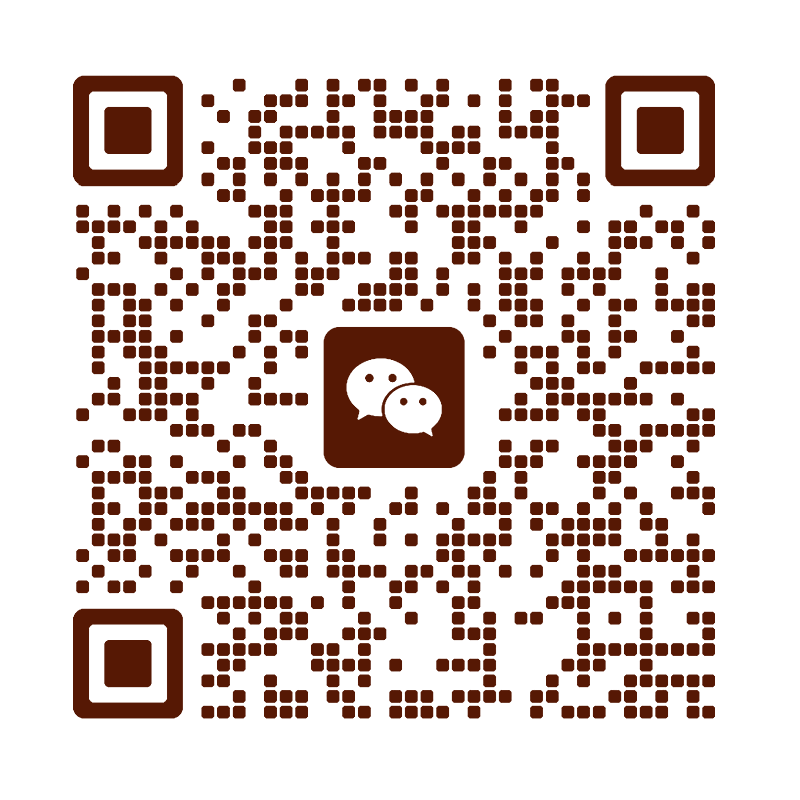
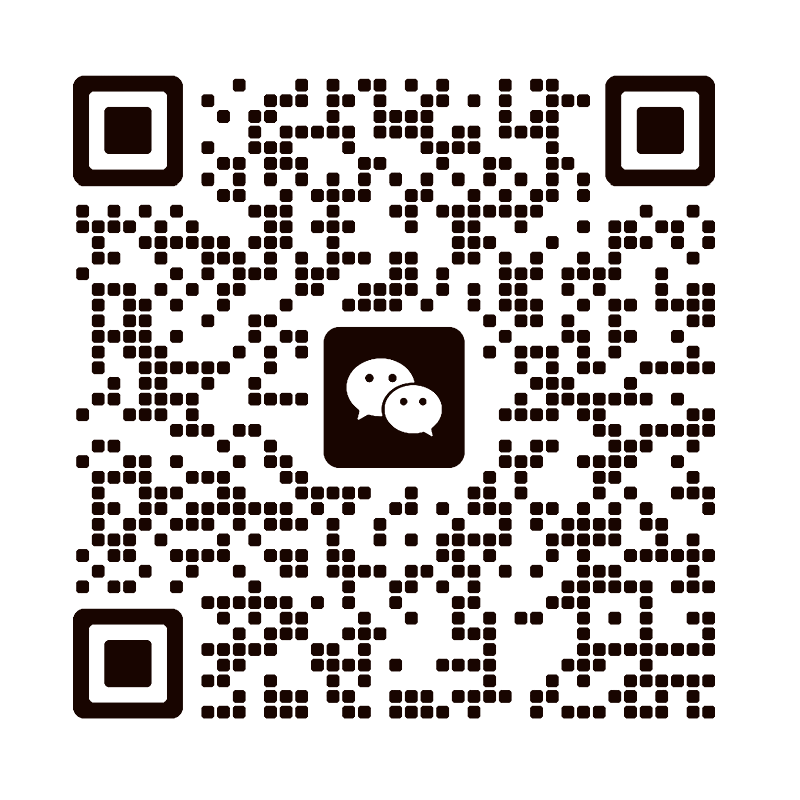
Increase community QR contrast

Changed region(s): [[0.0938, 0.0938, 0.9062, 0.9062]]

diff --git a/web/index.html b/web/index.html
@@ -475,7 +475,7 @@
           </div>
           <div class="qr-stage" aria-label="Hermes 交流答疑群二维码">
             <div class="qr-frame">
-              <img src="./assets/hermes-group-qr.png?v=20260530" alt="Hermes交流答疑群二维码" loading="lazy" />
+              <img src="./assets/hermes-group-qr.png?v=20260531-contrast" alt="Hermes交流答疑群二维码" loading="lazy" />
             </div>
           </div>
         </div>
